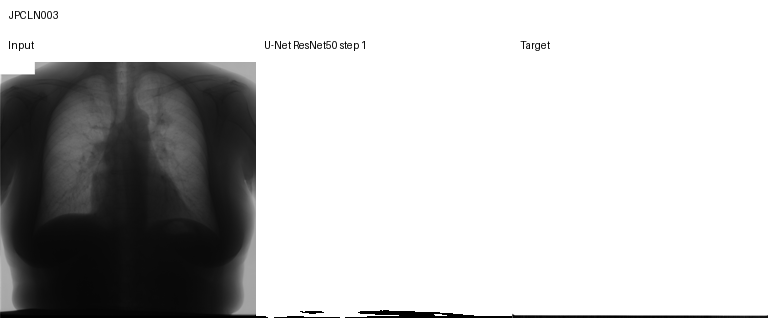
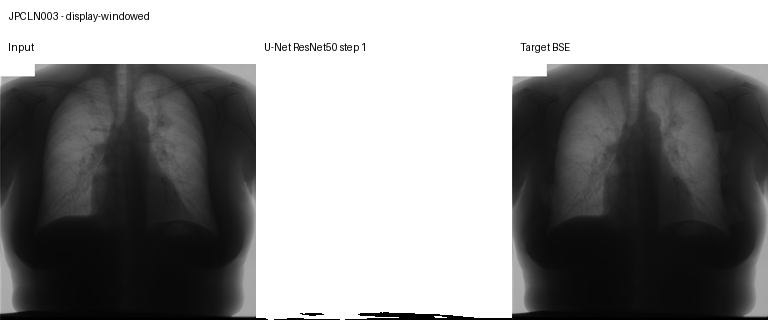
Fix README example display normalization

diff --git a/README.md b/README.md
@@ -120,6 +120,9 @@ documented `0,1,2,3,4,5` autoregressive sweep.
 The best quantitative retrained-v1 checkpoint is `unet_resnet50` at autoregressive step `1`.
 The examples below come from the deterministic test split and show the input X-ray, the one-step
 model output, and the paired BSE target used for evaluation.
+These README panels are display-windowed because the BSE targets are 16-bit PNGs; the display
+windowing is only for visualization. They should be treated as visual QA panels, not final
+publication figures, until the 16-bit target normalization path is rechecked end to end.
 
 ![JPCLN003 input, U-Net ResNet50 step 1 output, and target](docs/assets/examples/retrained_v1/JPCLN003_unet_resnet50_step1_input_output.png)
 
